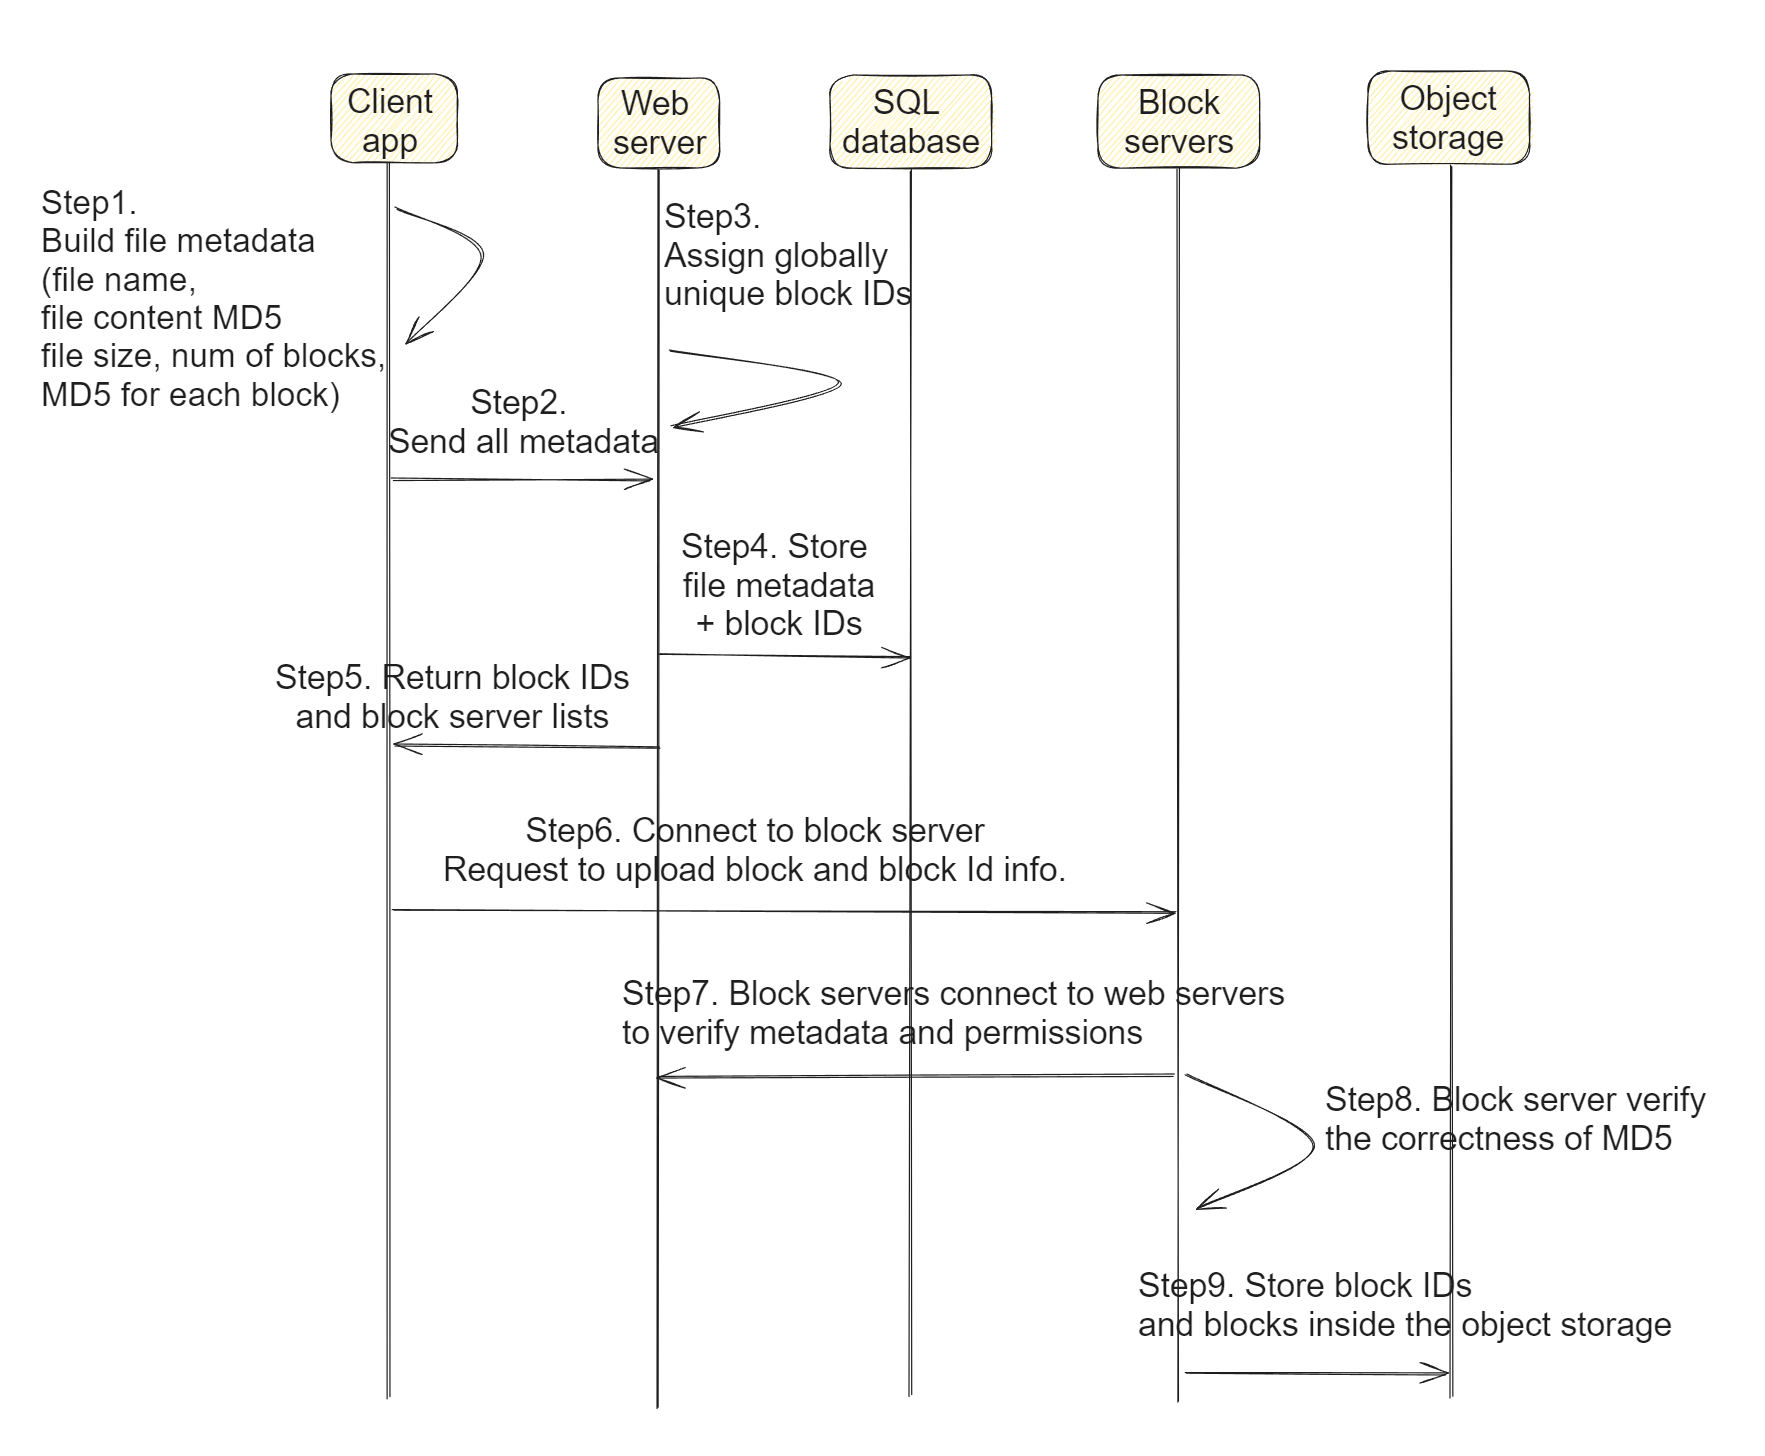
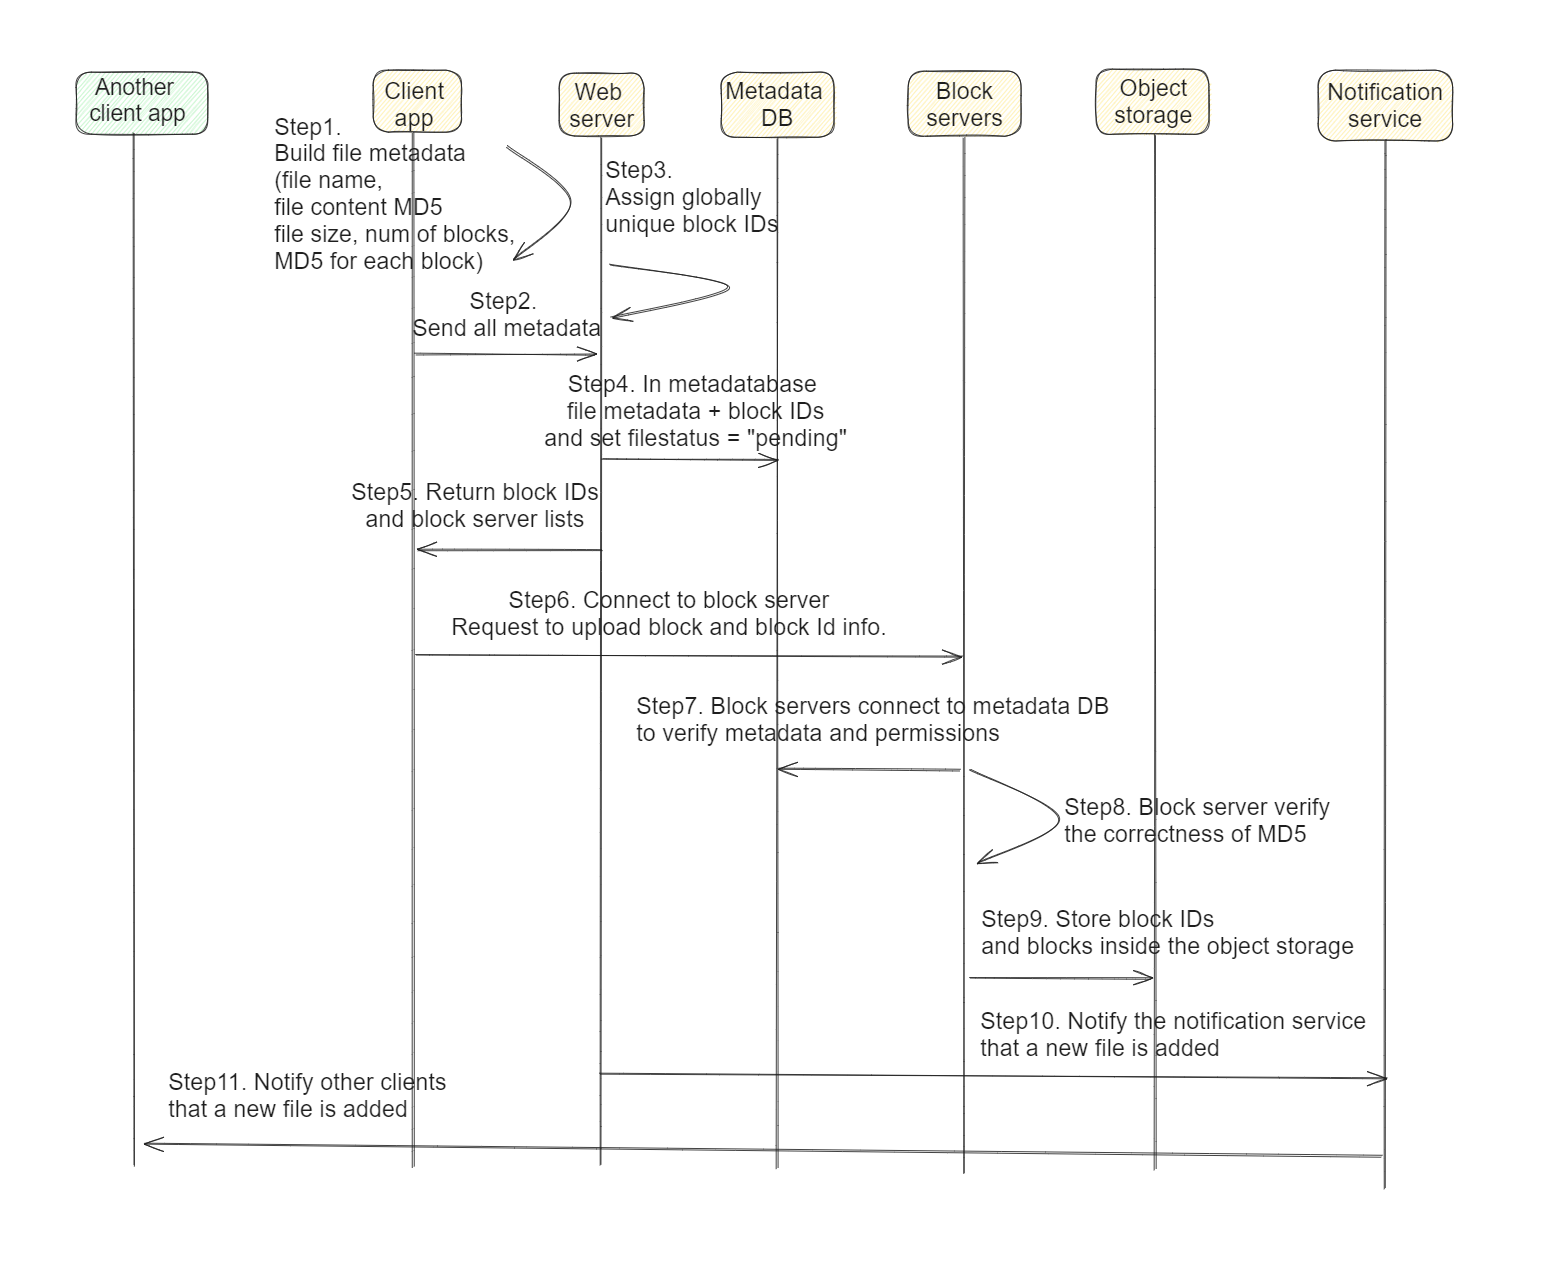
refactor

Changed region(s): [[0.0307, 0.0309, 0.9834, 0.9588]]

diff --git a/scenario_googleDrive/flowchart.md b/scenario_googleDrive/flowchart.md
@@ -1,57 +1,63 @@
-- [High level design](#high-level-design)
-- [Upload/Edit flow cahrt](#uploadedit-flow-cahrt)
-- [Download flow chart](#download-flow-chart)
+- [Component chart](#component-chart)
+- [Upload/Edit flow](#uploadedit-flow)
+  - [Upload file metadata](#upload-file-metadata)
+  - [Upload file](#upload-file)
+  - [Notify other clients](#notify-other-clients)
+- [Download flow](#download-flow)
+  - [](#)
 - [Notification flow](#notification-flow)
+  - [Block servers](#block-servers)
 
-### High level design
+# Component chart
 
 * Overall chart
 
 ![Component chart](../.gitbook/assets/googledrive_componentChart.png)
 
-* Block servers overall chart
-
-![Block servers](../.gitbook/assets/googledrive_blockservers_chart.png)
-
-* Block servers enable delta sync
-
-![Block servers enable delta](../.gitbook/assets/googledrive_blockservers_deltasync.png)
-
-### Upload/Edit flow cahrt
+# Upload/Edit flow
 
 Two requests are sent in parallel: add file metadata and upload the file to cloud storage. Both requests originate from client 1.
 
-* Add file metadata.
-  1. Client 1 sends a request to add the metadata of the new file.
-  2. Store the new file metadata in metadata DB and change the file upload status to “pending.”
-  3. Notify the notification service that a new file is being added.
-  4. The notification service notifies relevant clients (client 2) that a file is being uploaded.
-* Upload files to cloud storage.
-  1. Client 1 uploads the content of the file to block servers.
-  2. Block servers chunk the files into blocks, compress, encrypt the blocks, and upload them to cloud storage.
-  3. Once the file is uploaded, cloud storage triggers upload completion callback. The request is sent to API servers.
-  4. File status changed to “uploaded” in Metadata DB.
-  5. Notify the notification service that a file status is changed to “uploaded.”
-  6. The notification service notifies relevant clients (client 2) that a file is fully uploaded.
+## Upload file metadata
+1. Client app computes the file metadata to be uploaded.
+   * File name, file content MD5
+   * Number of blocks (assume each block is 4MB) and MD5 values for each block. 
+2. Client app sends the metadata to web server. 
+3. Web server computes globally unique block IDs for each block. 
+4. Web server sends metadata and block IDs to metadata DB change the file upload status to “pending.”
+5. Web server returns the block IDs to client app. 
+
+## Upload file
+6. Client app request block servers to upload blocks. 
+7. Block servers connect to metadata DB to verify permissions.
+8. Block servers verify correctness of MD5 values for each block
+9. Block servers store blocks inside object storage. 
+
+## Notify other clients
+10. Web servers notify notification service that a new file is being added.
+11. The notification service notifies relevant clients (client 2) that a file is being uploaded.
 
 ![Upload flow chart](../.gitbook/assets/googledrive_upload_flowchart.png)
 
-### Download flow chart
+# Download flow
+* Download flow is triggered by
+  * A file is added or edited elsewhere. 
+  * User proactively request to sync files
 
-* Download flow is triggered when a file is added or edited elsewhere. 
-  1. Notification service informs client 2 that a file is changed somewhere else.
-  2. Once client 2 knows that new updates are available, it sends a request to fetch metadata.
-  3. API servers call metadata DB to fetch metadata of the changes.
-  4. Metadata is returned to the API servers.
-  5. Client 2 gets the metadata.
-  6. Once the client receives the metadata, it sends requests to block servers to download blocks.
-  7. Block servers first download blocks from cloud storage.
-  8. Cloud storage returns blocks to the block servers.
-  9. Client 2 downloads all the new blocks to reconstruct the file.
+## 
+1. Notification service informs client 2 that a file is changed somewhere else.
+2. Once client 2 knows that new updates are available, it sends a request to fetch metadata.
+3. API servers call metadata DB to fetch metadata of the changes.
+4. Metadata is returned to the API servers.
+5. Client 2 gets the metadata.
+6. Once the client receives the metadata, it sends requests to block servers to download blocks.
+7. Block servers first download blocks from cloud storage.
+8. Cloud storage returns blocks to the block servers.
+9. Client 2 downloads all the new blocks to reconstruct the file.
 
 ![Download flow chart](../.gitbook/assets/googledrive_download_flowchart.png)
 
-### Notification flow
+# Notification flow
 
 * How does a client know if a file is added or edited by another client? There are two ways a client can know:
   * If client A is online while a file is changed by another client, notification service will inform client A that changes are made somewhere so it needs to pull the latest data.
@@ -62,3 +68,12 @@ Two requests are sent in parallel: add file metadata and upload the file to clou
 * Even though both options work well, we opt for long polling for the following two reasons:
   * Communication for notification service is not bi-directional. The server sends information about file changes to the client, but not vice versa.
   * WebSocket is suited for real-time bi-directional communication such as a chat app. 
+
+## Block servers
+* Block servers overall chart
+
+![Block servers](../.gitbook/assets/googledrive_blockservers_chart.png)
+
+* Block servers enable delta sync
+
+![Block servers enable delta](../.gitbook/assets/googledrive_blockservers_deltasync.png)

diff --git a/SUMMARY.md b/SUMMARY.md
@@ -75,6 +75,7 @@
 * [GoogleDrive](scenario_googleDrive/overview.md)
   * [Estimation](scenario_googleDrive/estimation.md)
   * [Flowchart](scenario_googleDrive/flowchart.md)
+  * [Storage](scenario_googleDrive/storage.md)
 
 ## Search scenarios
 * [ElasticSearch](search/elasticsearch.md)
